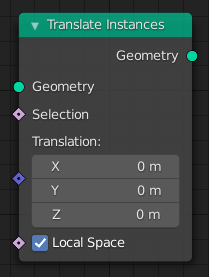
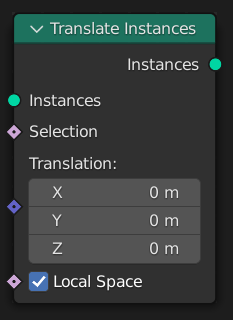
Merge branch 'blender-3.0-release'
git-svn-id: https://svn.blender.org/svnroot/bf-manual/trunk@8650 c4de1f47-6596-e411-a384-0024e86c2797

diff --git a/blender_docs/manual/modeling/geometry_nodes/instances/scale_instances.rst b/blender_docs/manual/modeling/geometry_nodes/instances/scale_instances.rst
@@ -10,7 +10,9 @@ Scale Instances Node
 
    The Scale Instances node.
 
-The *Scale Instances* node scales instances in local or global space.
+The *Scale Instances* node scales a geometry's instances in local or global space.
+
+The :doc:`/modeling/geometry_nodes/instances` page contains more information about geometry instances.
 
 
 Inputs
@@ -20,16 +22,20 @@ Geometry
    Standard geometry input.
 
 Selection
-   The instances that will be scaled.
+   Boolean field used to determine if an instance will be scaled.
 
 Scale
-   Scales the instances in given dimensions.
+   The scale factor to apply to the instance's transform on each axis.
 
 Center
-   The position where instances are scaled.
+   The position from which the instance origins are scaled. Each instance will move away from this
+   location. When the *Local Space* input is enabled, this location is relative to the initial
+   transform of each instance.
 
 Local Space
-   If enabled, the instances are scaled in local space otherwise they are scaled in global space.
+   If enabled, the instances are scaled in local space. In other words, they are scaled in the
+   directions the described by each instance's initial transform. When the input is disabled, the
+   *Center* and *Scale* inputs are specified in the local space of the modifier object.
 
 
 Properties

diff --git a/blender_docs/manual/modeling/geometry_nodes/instances/rotate_instances.rst b/blender_docs/manual/modeling/geometry_nodes/instances/rotate_instances.rst
@@ -10,7 +10,9 @@ Rotate Instances Node
 
    The Rotate Instances node.
 
-The *Rotate Instances* node rotates instances in local or global space.
+The *Rotate Instances* node rotates a geometry's instances in local or global space.
+
+The :doc:`/modeling/geometry_nodes/instances` page contains more information about geometry instances.
 
 
 Inputs
@@ -20,16 +22,19 @@ Geometry
    Standard geometry input.
 
 Selection
-   The instances that will be rotated.
+   Boolean field used to determine if an instance will be rotated.
 
 Rotation
-   The Euler rotation to rotate the instances by.
+   The :term:`Euler` rotation to rotate the instances by.
 
 Pivot Point
-   The position where the instances are rotated.
+   The position around which each instance is rotated. If the *Local Space* input is true,
+   the location is relative to the initial transform of the instance.
 
 Local Space
-   If enabled, the instances are rotated in local space otherwise they are rotated in global space.
+   If enabled, the instances are rotated in local space. In other words, they are rotated around the
+   axes described by each instance's initial transform. When the input is disabled, the pivot point
+   and rotation are specified in the local space of the modifier object.
 
 
 Properties

diff --git a/blender_docs/manual/modeling/geometry_nodes/instances/translate_instances.rst b/blender_docs/manual/modeling/geometry_nodes/instances/translate_instances.rst
@@ -10,8 +10,9 @@ Translate Instances Node
 
    The Translate Instances node.
 
-The *Translate Instances* node translates instances in local or global space.
+The *Translate Instances* node moves a geometry's top-level instances in local or global space.
 
+The :doc:`/modeling/geometry_nodes/instances` page contains more information about geometry instances.
 
 Inputs
 ======
@@ -20,13 +21,14 @@ Geometry
    Standard geometry input.
 
 Selection
-   The instances that will be translated.
+   Boolean field used to determine if an instance will be translated.
 
 Translation
    The vector to translate the instances by.
 
 Local Space
-   If enabled, the instances are translated in local space otherwise they are translated in global space.
+   If enabled, the instances are translated relative to their initial rotation.
+   Otherwise they are translated in the local space of the modifier object.
 
 
 Properties

diff --git a/blender_docs/manual/modeling/geometry_nodes/fields.rst b/blender_docs/manual/modeling/geometry_nodes/fields.rst
@@ -105,9 +105,12 @@ Field inputs may also come from other nodes that process geometry like the
 :doc:`/modeling/geometry_nodes/point/distribute_points_on_faces`, 
 in the form of :ref:`anonymous-attributes`.
 
-
 Field Context
 =============
+
+All field nodes work in the context of the data flow node they are connected to.
+The context usually consists of a geometry component type and an attribute domain,
+so it determines what data is retrieved from input nodes. 
 
 One common misunderstanding is that the same field network used in multipled places will
 output the same data. This is not necessarily true, because the field network will be evaluated

diff --git a/blender_docs/manual/render/cycles/render_settings/sampling.rst b/blender_docs/manual/render/cycles/render_settings/sampling.rst
@@ -194,6 +194,11 @@ Scrambling Distance
    Adaptive
       Uses a formula to adapt the scrambling distance strength based on the sample count.
 
+      .. note::
+      
+         When *Adaptive Scrambling Distance* is enabled, *Scrambling Distance* behaves like a modifier for
+         the *Adaptive Scrambling Distance* value.
+
    .. _bpy.types.CyclesRenderSettings.preview_scrambling_distance:
 
    Viewport

diff --git a/blender_docs/manual/modeling/geometry_nodes/curve/set_handle_type.rst b/blender_docs/manual/modeling/geometry_nodes/curve/set_handle_type.rst
@@ -12,8 +12,8 @@ Set Handle Type Node
 
 Sets the handle type for the points on the Bézier curve that are in the selection.
 
-The handle type of each control point can be retrieved with
-the :doc:`/modeling/geometry_nodes/curve/set_handle_type`.
+A selection for a certain handle type can be retrieved with
+the :doc:`/modeling/geometry_nodes/curve/handle_type_selection`.
 
 
 Inputs

diff --git a/blender_docs/manual/modeling/geometry_nodes/curve/endpoint_selection.rst b/blender_docs/manual/modeling/geometry_nodes/curve/endpoint_selection.rst
@@ -44,7 +44,7 @@ Outputs
 =======
 
 Selection
-   Selection of start and end of each spline of the curve.
+   Selection of the start and end of each spline of the curve.
 
 
 Examples
